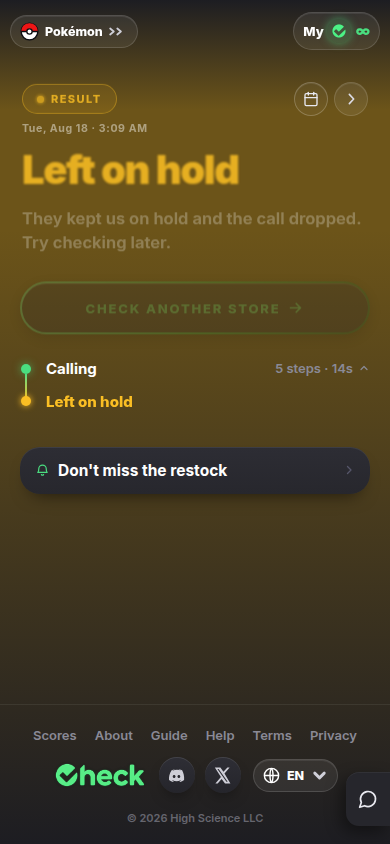
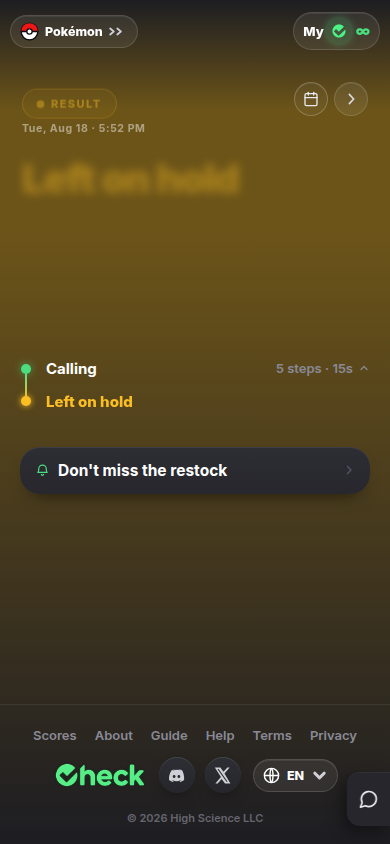
The swing test is out: check 378's own tape proved music swings like a voice
Real music held the line 100% loud for fourteen straight seconds while
swinging 600 to 6500 inside single seconds, exactly like speech, so
loudness swing tells the two apart not at all and the gaps are the
whole truth: a run of sound banks as comeback evidence only when it
breaks at word scale. The rig's raw SPEECH shape gains the silent
fifth frame its own speak helper always had, matching the tape.

Claude-Session: https://claude.ai/code/session_01MuzQcfdidLJDRCETGYz4Ri

diff --git a/src/calls/listen-nav.ts b/src/calls/listen-nav.ts
@@ -639,20 +639,15 @@ const VOICE_GAP_MS = 300;
 /** HOW LONG ONE UNBROKEN RUN OF SOUND CAN BE AND STILL BE SPEECH (check 377, 08-18, test five).
  *  Hold music dipped and Charlie rejoined six seconds before Staff spoke: the dip had emptied the
  *  music test's window, so the music RESUMING banked as "a person with gaps in their speech" and
- *  400ms of it ended the wait. A person's sound has gaps in it, or it swings hard from syllable to
- *  syllable (see RUN_SWING below); music is unbroken AND steady. So on a hold, a run of steady
- *  sound is banked as comeback evidence only when it BREAKS at word scale, and a steady run that
- *  outgrows this is struck: it is the music, however it started. The rejoin still backdates to
- *  their first banked word, so the wait's length never pays for the proof. */
+ *  400ms of it ended the wait. The one thing that tells the two apart — measured on check 378's
+ *  own tape, never guessed — is the gaps: real music held the line 100% loud for fourteen straight
+ *  seconds while real speech never passed about two thirds loud inside any one second, because
+ *  every word's edges dip under the threshold. (Loudness SWING does not tell them apart: on the
+ *  same tape the music swung 600 to 6500 inside single seconds, exactly like a voice.) So on a
+ *  hold, a run is banked as comeback evidence only when it BREAKS at word scale, and a run that
+ *  outgrows this unbroken is struck: it is the music, however it started. The rejoin still
+ *  backdates to their first banked word, so the wait's length never pays for the proof. */
 const MAX_SPEECH_RUN_MS = 1200;
-/** …AND THE SWING THAT PROVES A VOICE MID RUN. Speech swings hard between one syllable and the
- *  next — the rig's own speech shape moves ninefold inside six frames — while music, a ringback and
- *  a hold loop hold their loudness nearly still over any stretch this short. Threefold inside the
- *  last ten loud frames (200ms) says this run is a voice, so it banks at once and the wait can end
- *  mid run, exactly as fast as it ever did. Judged over a SHORT window on purpose: hold music that
- *  swells does cross threefold eventually, but only slowly, never inside a fifth of a second. */
-const RUN_SWING = 3;
-const RUN_SWING_FRAMES = 10;
 /** Nobody has made a sound for a very long time. Different from "they walked away to go and look":
  *  at this point the line is probably not a conversation any more — the handset was put down and
  *  forgotten, or the far end went away without hanging up. The runtime decides what to do about it;
@@ -741,16 +736,11 @@ export class ConversationEar {
    *  hold be backdated to the moment they STARTED talking rather than the moment we were sure. */
   private backSpeech: number[] = [];
   /** The run of sound currently in progress, held apart from the banked evidence while we are on a
-   *  hold: it banks when it BREAKS at word scale or proves itself a voice by swinging (RUN_SWING),
-   *  because until then it cannot be told from the hold music resuming (check 377). */
+   *  hold: it only banks when it BREAKS at word scale, because until it breaks it cannot be told
+   *  from the hold music resuming (check 377 — see MAX_SPEECH_RUN_MS). */
   private runSpeech: number[] = [];
-  /** The current run outgrew a word without ever swinging, so it is the music: nothing more of it
-   *  banks until it breaks — unless a voice starts swinging over it. */
+  /** The current run outgrew a word, so it is the music: nothing more of it banks until it breaks. */
   private runIsMusic = false;
-  /** The current run swung like a voice, so the rest of it banks frame by frame, as always. */
-  private runIsSpeech = false;
-  /** The last few loud energies of the current run, for the swing test. */
-  private runLevels: number[] = [];
   /** How much of the current wait was sound from across the room rather than plain silence. */
   private roomMs = 0;
   /** The last third of a second of sound, so the room test reads a stretch and not one frame. */
@@ -882,7 +872,7 @@ export class ConversationEar {
       this.closePeak = Math.max(this.closePeak, this.closeLevel);
       const full = this.voiced.length * FRAME_MS >= this.windowMs
         && this.voiced.filter(Boolean).length / this.voiced.length >= this.voicedFrac;
-      if (full && this.soundMs >= this.musicMax) { this.voiceRunMs = 0; this.backSpeech = []; this.runSpeech = []; this.runIsMusic = false; this.runIsSpeech = false; this.runLevels = []; this.enter("music"); }
+      if (full && this.soundMs >= this.musicMax) { this.voiceRunMs = 0; this.backSpeech = []; this.runSpeech = []; this.runIsMusic = false; this.enter("music"); }
       // Sound with gaps in it is a person. If we thought they were away, they are back — but only
       // once they have actually said SOMETHING. A single frame ending a hold is the other half of the
       // flapping bug: it ended a hold that had lasted nothing, and the next ring opened another one.
@@ -892,31 +882,18 @@ export class ConversationEar {
       // (owner's check 298). One click is still one frame and can never add up to it.
       else if (!full) {
         this.heardVoiceMs += FRAME_MS; this.voiceRunMs += FRAME_MS; this.deadAirCalled = false;
-        // ON A HOLD, A RUN BANKS WHEN IT PROVES ITSELF A VOICE (check 377, 08-18). The music
-        // resuming after a dip used to bank here frame by frame and end the wait at 400ms, six
-        // seconds before Staff spoke, because sound the window cannot yet prove is music reads
-        // exactly like a person. A voice proves itself two ways: it swings hard between syllables
-        // (the swing test, which banks mid run at full speed), or it breaks at word scale (the
-        // else branch below, where the wait still ends backdated to the run's first frame). A
-        // steady run that outgrows a word without doing either is the music, however it started,
-        // and is struck. Off a hold there is no wait to end, so frames bank straight away, as before.
+        // ON A HOLD, A RUN ONLY BANKS WHEN IT BREAKS (check 377, 08-18). The music resuming after a
+        // dip used to bank here frame by frame and end the wait at 400ms, six seconds before Staff
+        // spoke, because sound the window cannot yet prove is music reads exactly like a person —
+        // until it runs on without a gap, which no speech does and all music does (check 378's
+        // tape). So the run in progress is held apart, struck the moment it outgrows a word, and
+        // banked at its first break (the else branch below), where the wait still ends backdated
+        // to its first frame. Off a hold there is no wait to end, so frames bank straight away.
         if (!this.reason) {
           this.backSpeech.push(this.elapsed);
-        } else if (this.runIsSpeech) {
-          this.backSpeech.push(this.elapsed);
-          if (this.backSpeech.length * FRAME_MS >= this.backVoiceMs) this.leave();
-        } else {
-          this.runLevels.push(energy);
-          while (this.runLevels.length > RUN_SWING_FRAMES) this.runLevels.shift();
-          if (Math.max(...this.runLevels) >= Math.min(...this.runLevels) * RUN_SWING) {
-            this.runIsSpeech = true; this.runIsMusic = false;
-            this.backSpeech.push(...this.runSpeech, this.elapsed);
-            this.runSpeech = [];
-            if (this.backSpeech.length * FRAME_MS >= this.backVoiceMs) this.leave();
-          } else if (!this.runIsMusic) {
-            this.runSpeech.push(this.elapsed);
-            if (this.soundMs > MAX_SPEECH_RUN_MS) { this.runSpeech = []; this.runIsMusic = true; }
-          }
+        } else if (!this.runIsMusic) {
+          this.runSpeech.push(this.elapsed);
+          if (this.soundMs > MAX_SPEECH_RUN_MS) { this.runSpeech = []; this.runIsMusic = true; }
         }
       }
     } else {
@@ -928,7 +905,7 @@ export class ConversationEar {
           this.backSpeech.push(...this.runSpeech);
           if (this.backSpeech.length * FRAME_MS >= this.backVoiceMs) this.leave();
         }
-        this.runSpeech = []; this.runIsMusic = false; this.runIsSpeech = false; this.runLevels = [];
+        this.runSpeech = []; this.runIsMusic = false;
       }
       this.soundMs = 0; this.quietMs += FRAME_MS;
       if (room) this.roomMs += FRAME_MS;
@@ -962,7 +939,7 @@ export class ConversationEar {
     // they were still here, so it can never be part of the proof that somebody has come back.
     this.soundRecent = [];
     this.backSpeech = [];
-    this.runSpeech = []; this.runIsMusic = false; this.runIsSpeech = false; this.runLevels = [];
+    this.runSpeech = []; this.runIsMusic = false;
     const already = reason === "quiet" || reason === "room" ? this.quietMs : reason === "music" ? this.soundMs : this.toneRunMs;
     this.holdStartedAt = Math.max(0, this.elapsed - already);
     this.holdMs += already;
@@ -981,7 +958,7 @@ export class ConversationEar {
     this.reason = null;
     this.voiceRunMs = 0;
     this.backSpeech = [];
-    this.runSpeech = []; this.runIsMusic = false; this.runIsSpeech = false; this.runLevels = [];
+    this.runSpeech = []; this.runIsMusic = false;
     this.on.holdEnd(gap, gap >= this.newPersonMs, back);
   }
 }

diff --git a/scripts/test-delta-clip.ts b/scripts/test-delta-clip.ts
@@ -51,11 +51,17 @@ const sleep = (ms: number) => new Promise((r) => setTimeout(r, ms));
 // μ-law: 0x00 decodes to a very loud sample, 0x7F to silence. That is all we need to make the ear
 // hear "someone is talking" or "the line is quiet".
 const LOUD = (n = 160, jitter = 0) => Buffer.alloc(n, 0x00).map((_, i) => (jitter && i % (3 + jitter) === 0 ? 0x10 : 0x00)) as Buffer;
-/** SPEECH, NOT A TONE. LOUD holds the same loudness on every frame, and over about a second of it the
- *  ear rightly calls that a machine tone — a ringback holds a steady amplitude, speech swings hard
- *  from syllable to syllable. Any scene that has to keep somebody TALKING for seconds (a recording
- *  reading its announcement) needs that swing, or it is testing the ringback rule by accident. */
-const SPEECH = (i: number) => Buffer.alloc(160, [0x00, 0x22, 0x08, 0x34, 0x02, 0x18][i % 6]);
+/** SPEECH, NOT A TONE, AND NOT MUSIC EITHER. LOUD holds the same loudness on every frame, and over
+ *  about a second of it the ear rightly calls that a machine tone — a ringback holds a steady
+ *  amplitude, speech swings hard from syllable to syllable. Any scene that has to keep somebody
+ *  TALKING for seconds needs that swing, or it is testing the ringback rule by accident. And every
+ *  fifth frame is SILENT, the same gap the `speak` helper below has always had, because that is
+ *  what real speech measures as on a real tape (check 378's carrier recording, 08-18): a voice
+ *  never held the line more than about two thirds loud inside any one second — word edges dip
+ *  under the threshold — while the hold music ran 100% loud for fourteen straight seconds. The
+ *  gaps are how the ear tells a person coming back from the music resuming, so a speech shape
+ *  with no gaps in it is a music shape by the ear's own measure, and it tests the wrong thing. */
+const SPEECH = (i: number) => Buffer.alloc(160, i % 5 === 4 ? 0x7f : [0x00, 0x22, 0x08, 0x34, 0x02, 0x18][i % 6]);
 const frame = (b: Buffer) => b.toString("base64");
 
 // ---- the fake voice provider -----------------------------------------------------------------
